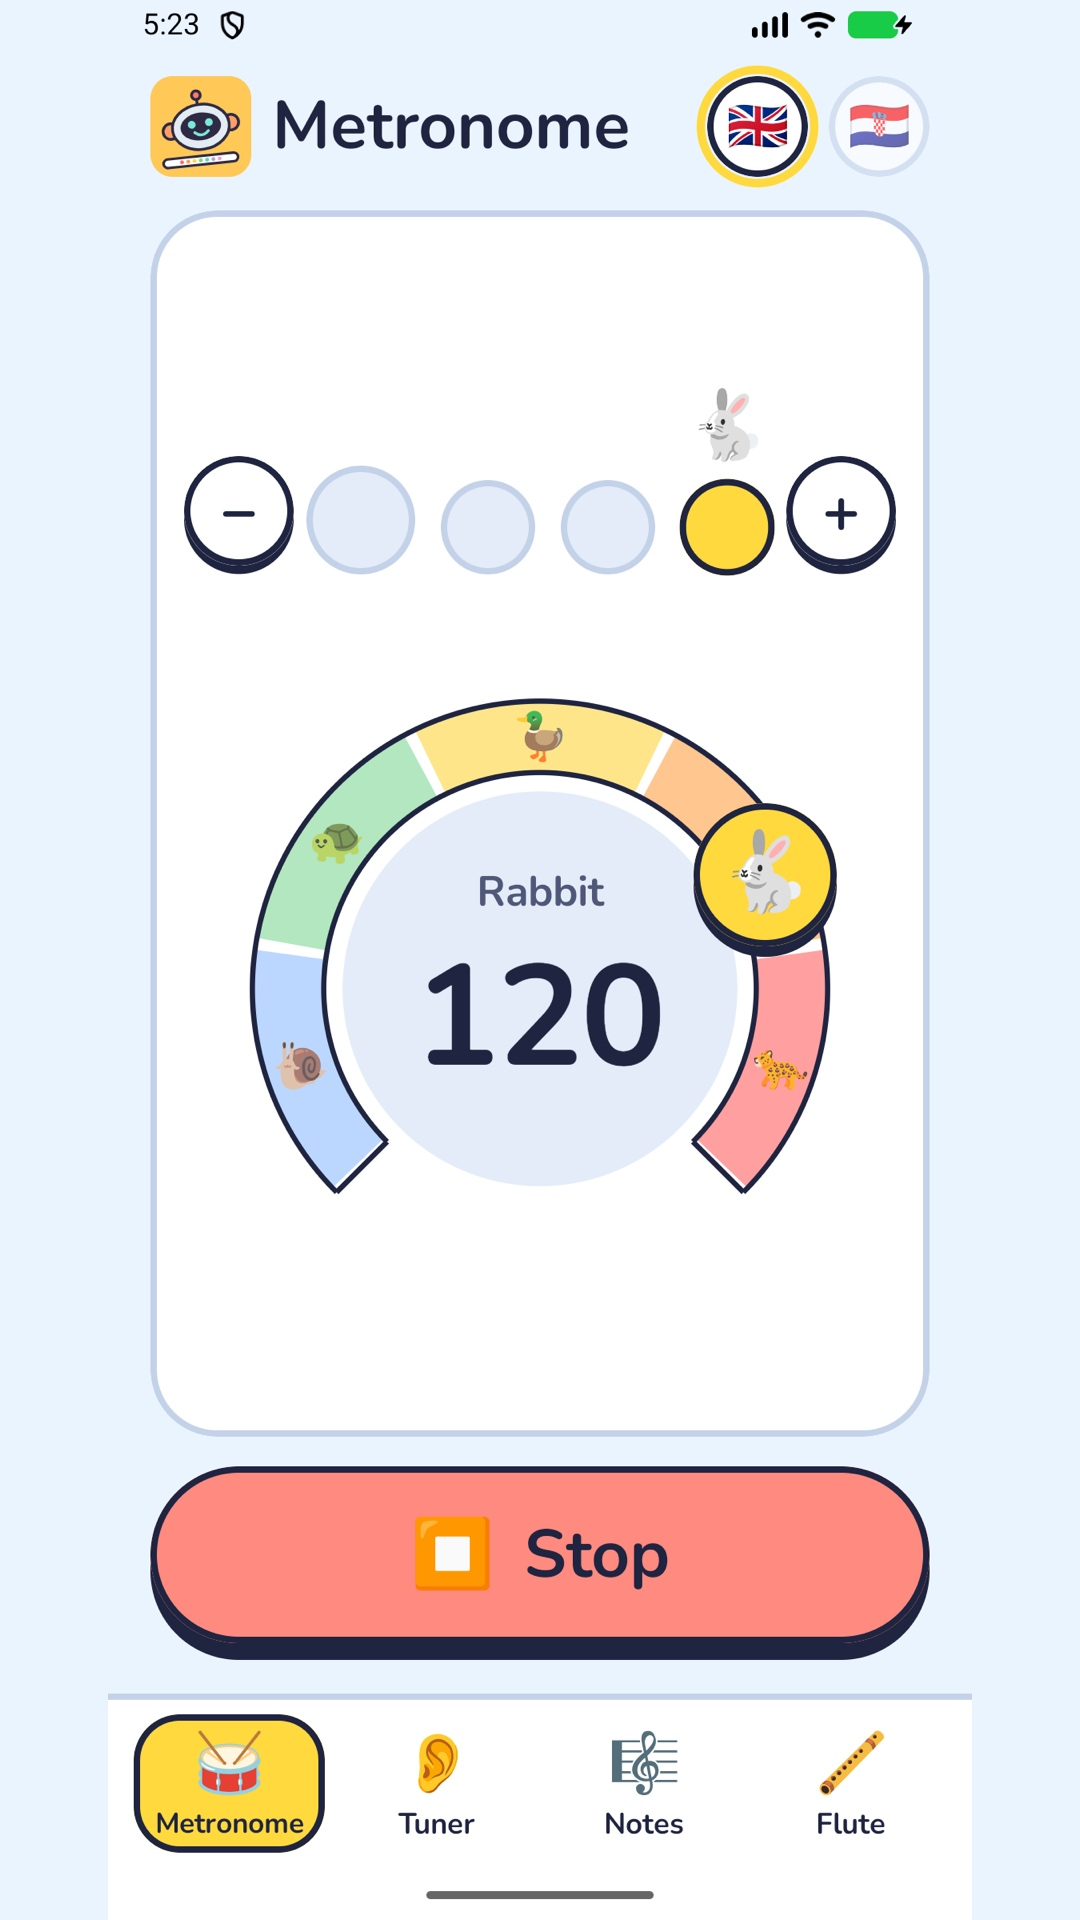
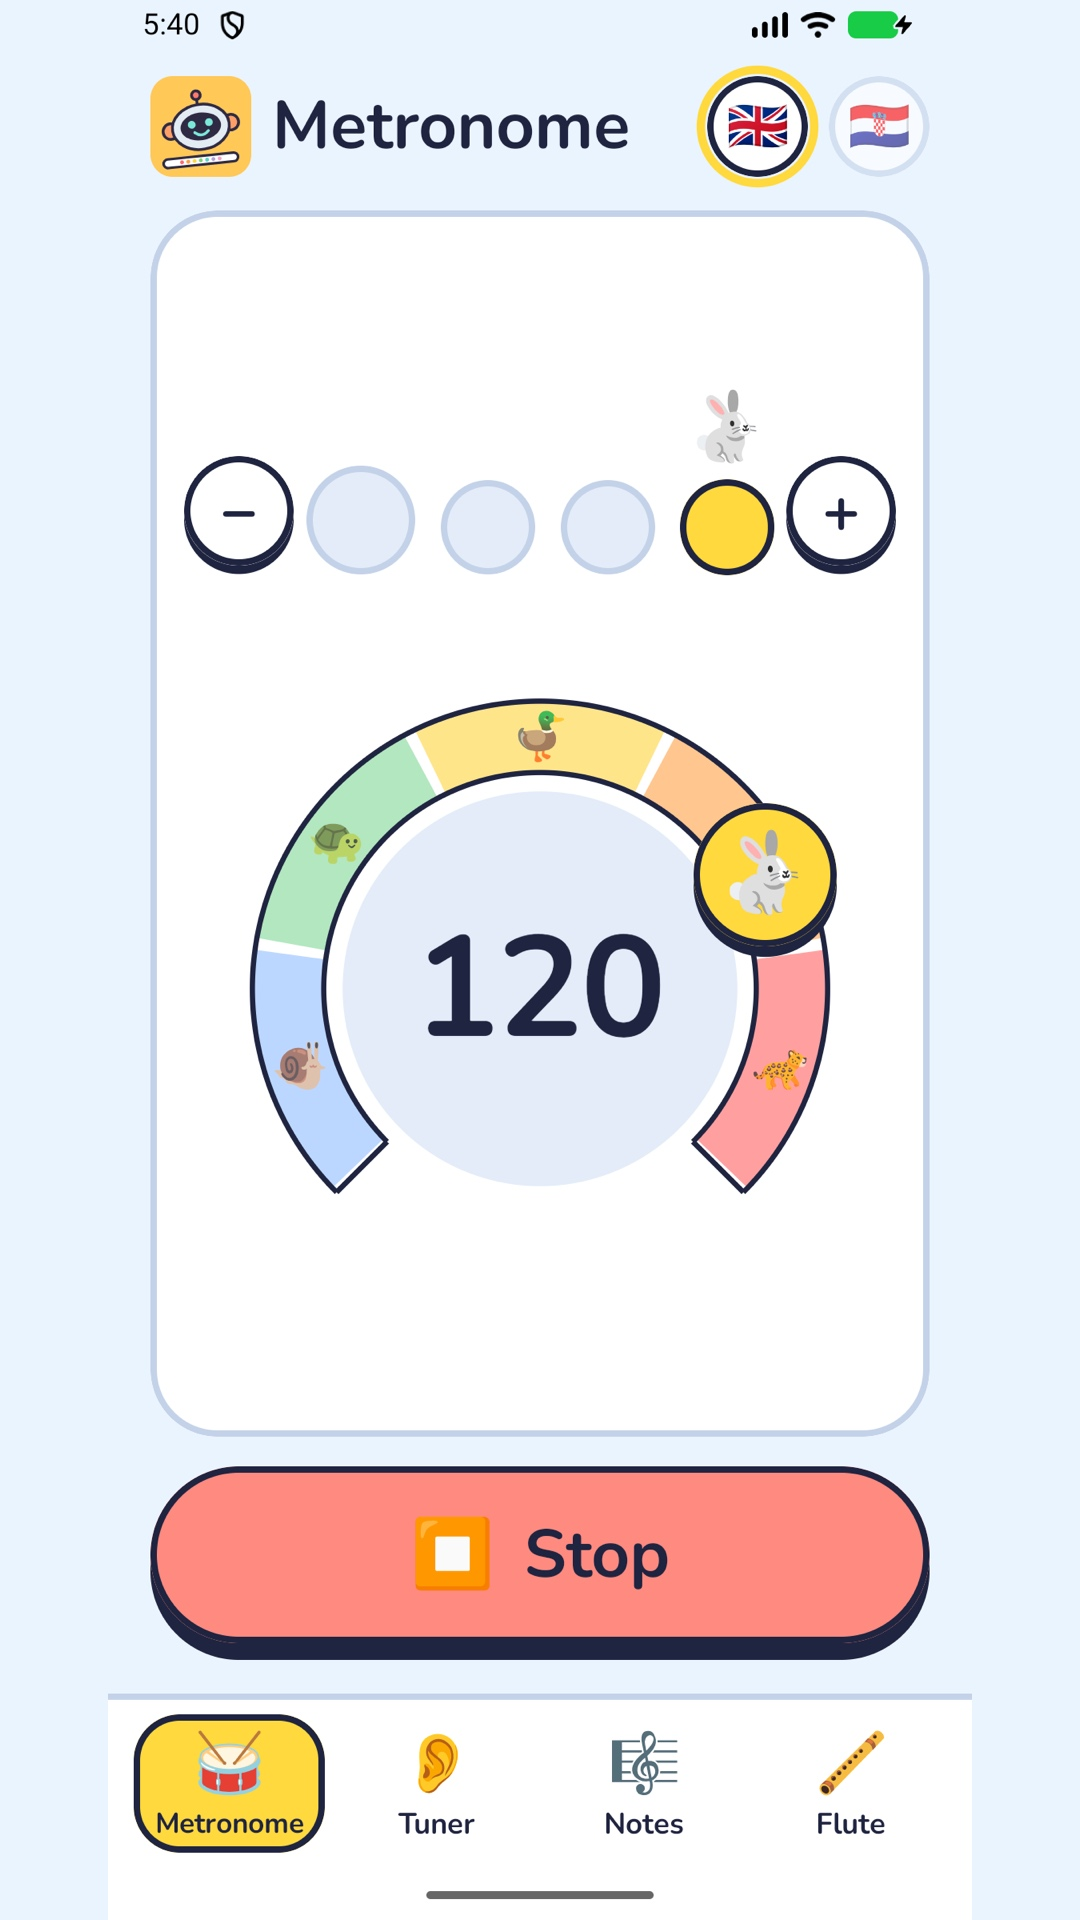
feat(ui): mirror speed animals to face right and simplify tempo ring

diff --git a/app/src/main/java/hr/bertlab/fluteassistant/ui/metronome/TempoDial.kt b/app/src/main/java/hr/bertlab/fluteassistant/ui/metronome/TempoDial.kt
@@ -6,7 +6,6 @@ import androidx.compose.foundation.gestures.detectDragGestures
 import androidx.compose.foundation.interaction.MutableInteractionSource
 import androidx.compose.foundation.layout.Box
 import androidx.compose.foundation.layout.BoxWithConstraints
-import androidx.compose.foundation.layout.Column
 import androidx.compose.foundation.layout.offset
 import androidx.compose.foundation.layout.size
 import androidx.compose.foundation.progressSemantics
@@ -36,6 +35,7 @@ import androidx.compose.ui.res.stringResource
 import androidx.compose.ui.semantics.Role
 import androidx.compose.ui.semantics.contentDescription
 import androidx.compose.ui.semantics.semantics
+import androidx.compose.ui.semantics.stateDescription
 import androidx.compose.ui.semantics.setProgress
 import androidx.compose.ui.unit.Dp
 import androidx.compose.ui.unit.DpOffset
@@ -44,6 +44,7 @@ import androidx.compose.ui.unit.dp
 import hr.bertlab.fluteassistant.R
 import hr.bertlab.fluteassistant.ui.common.Emoji
 import hr.bertlab.fluteassistant.ui.common.chunky
+import hr.bertlab.fluteassistant.ui.common.facingRight
 import hr.bertlab.fluteassistant.ui.theme.FluteTheme
 import hr.bertlab.fluteassistant.ui.theme.Sun
 import kotlin.math.atan2
@@ -98,6 +99,7 @@ fun TempoDial(
     val colors = FluteTheme.colors
     val dialDescription = stringResource(R.string.tempo_dial)
     val band = tempoBand(bpm)
+    val bandName = stringResource(band.labelRes)
     val minBpm = TempoBand.MIN_BPM
     val maxBpm = TempoBand.MAX_BPM
 
@@ -107,6 +109,8 @@ fun TempoDial(
             .progressSemantics(bpm.toFloat(), minBpm.toFloat()..maxBpm.toFloat(), steps = maxBpm - minBpm - 1)
             .semantics {
                 contentDescription = dialDescription
+                // The ring shows no name any more; a screen reader still hears the speed's animal.
+                stateDescription = bandName
                 setProgress { value ->
                     onBpmChange(value.roundToInt().coerceIn(minBpm, maxBpm))
                     true
@@ -155,7 +159,7 @@ fun TempoDial(
                     }
                     .semantics { contentDescription = label },
             ) {
-                if (each != band) Emoji(each.emoji, fontSize = 22, modifier = Modifier.alpha(0.75f))
+                if (each != band) Emoji(each.emoji, fontSize = 22, modifier = Modifier.alpha(0.75f).facingRight())
             }
         }
 
@@ -167,7 +171,7 @@ fun TempoDial(
                 modifier = Modifier.onGloballyPositioned(onWheelPositioned),
             )
         } else {
-            TempoNumber(bpm = bpm, bandName = stringResource(band.labelRes), scale = side / DESIGN_SIZE.dp, onClick = { onEditingChange(true) })
+            TempoNumber(bpm = bpm, scale = side / DESIGN_SIZE.dp, onClick = { onEditingChange(true) })
         }
 
         val knob = side * KNOB_SIZE
@@ -182,18 +186,25 @@ fun TempoDial(
             Emoji(
                 emoji = band.emoji,
                 fontSize = (knob.value * 0.55f).roundToInt(),
-                modifier = Modifier.graphicsLayer { translationY = -HOP_DP * density * flash() },
+                modifier = Modifier
+                    .facingRight()
+                    .graphicsLayer { translationY = -HOP_DP * density * flash() },
             )
         }
     }
 }
 
-/** The band's name over the big tempo figure, sized with the ring ([scale] 1 = 304 dp); a tap opens the wheel. */
+/**
+ * The big tempo figure alone in the ring (the animal on the knob names the speed), sized with the
+ * ring ([scale] 1 = 304 dp); a tap opens the wheel.
+ */
 @Composable
-private fun TempoNumber(bpm: Int, bandName: String, scale: Float, onClick: () -> Unit) {
+private fun TempoNumber(bpm: Int, scale: Float, onClick: () -> Unit) {
     val tapLabel = stringResource(R.string.tempo_tap)
-    Column(
-        horizontalAlignment = Alignment.CenterHorizontally,
+    val number = MaterialTheme.typography.displayLarge
+    Text(
+        text = bpm.toString(),
+        style = number.copy(fontSize = number.fontSize * scale, lineHeight = number.lineHeight * scale),
         modifier = Modifier.clickable(
             interactionSource = remember { MutableInteractionSource() },
             indication = ripple(bounded = false, radius = 72.dp),
@@ -201,16 +212,7 @@ private fun TempoNumber(bpm: Int, bandName: String, scale: Float, onClick: () ->
             onClickLabel = tapLabel,
             onClick = onClick,
         ),
-    ) {
-        val name = MaterialTheme.typography.titleMedium
-        val number = MaterialTheme.typography.displayLarge
-        Text(
-            text = bandName,
-            style = name.copy(fontSize = name.fontSize * scale, lineHeight = name.lineHeight * scale),
-            color = FluteTheme.colors.mutedText,
-        )
-        Text(text = bpm.toString(), style = number.copy(fontSize = number.fontSize * scale, lineHeight = number.lineHeight * scale))
-    }
+    )
 }
 
 /** The five coloured bands between an inner and an outer ink line, closed at both ends. */

diff --git a/app/src/androidTest/java/hr/bertlab/fluteassistant/ui/metronome/MetronomeScreenTest.kt b/app/src/androidTest/java/hr/bertlab/fluteassistant/ui/metronome/MetronomeScreenTest.kt
@@ -3,6 +3,9 @@ package hr.bertlab.fluteassistant.ui.metronome
 import androidx.compose.runtime.MutableState
 import androidx.compose.runtime.mutableStateOf
 import androidx.compose.ui.semantics.SemanticsActions
+import androidx.compose.ui.semantics.SemanticsProperties
+import androidx.compose.ui.test.SemanticsMatcher
+import androidx.compose.ui.test.assert
 import androidx.compose.ui.test.assertCountEquals
 import androidx.compose.ui.test.assertIsDisplayed
 import androidx.compose.ui.test.assertIsEnabled
@@ -65,13 +68,16 @@ class MetronomeScreenTest {
     }
 
     @Test
-    fun the_ring_names_the_speed_with_its_animal() {
+    fun the_ring_shows_only_the_tempo_and_tells_a_screen_reader_its_animal() {
         show(MetronomeUiState(config = MetronomeConfig(bpm = 120)))
-        compose.onNodeWithText("Rabbit").assertIsDisplayed()
+        compose.onNodeWithText("Rabbit").assertDoesNotExist()
+        ring().assert(SemanticsMatcher.expectValue(SemanticsProperties.StateDescription, "Rabbit"))
         compose.runOnIdle { state.value = state.value.copy(config = MetronomeConfig(bpm = 70)) }
-        compose.onNodeWithText("Turtle").assertIsDisplayed()
+        ring().assert(SemanticsMatcher.expectValue(SemanticsProperties.StateDescription, "Turtle"))
         compose.onNodeWithText("70").assertIsDisplayed()
     }
+
+    private fun ring() = compose.onNodeWithContentDescription("Tempo ring, drag around it to change the speed")
 
     @Test
     fun tapping_a_band_jumps_to_its_start_and_the_rabbit_again_to_120() {
@@ -179,7 +185,8 @@ class MetronomeScreenTest {
     fun croatian_system_language_shows_croatian_labels() {
         show(MetronomeUiState(), Locale("hr"))
         compose.onNodeWithText("Sviraj").assertIsDisplayed()
-        compose.onNodeWithText("Zec").assertIsDisplayed()
+        compose.onNodeWithText("Zec").assertDoesNotExist()
+        compose.onNodeWithContentDescription("Zec").assertExists()
         compose.onNodeWithContentDescription("Dobe u taktu: 4").assertIsDisplayed()
         compose.onAllNodesWithContentDescription("Više doba").assertCountEquals(1)
         compose.onNodeWithContentDescription("Kornjača").assertExists()

diff --git a/app/src/main/java/hr/bertlab/fluteassistant/ui/notes/RoundSummary.kt b/app/src/main/java/hr/bertlab/fluteassistant/ui/notes/RoundSummary.kt
@@ -33,6 +33,7 @@ import hr.bertlab.fluteassistant.R
 import hr.bertlab.fluteassistant.ui.common.BigActionButton
 import hr.bertlab.fluteassistant.ui.common.Emoji
 import hr.bertlab.fluteassistant.ui.common.OutlineWidth
+import hr.bertlab.fluteassistant.ui.common.facingRight
 import hr.bertlab.fluteassistant.ui.theme.FluteTheme
 import hr.bertlab.fluteassistant.ui.theme.Go
 
@@ -82,6 +83,7 @@ fun RoundSummary(state: NotesUiState, onPlayAgain: () -> Unit, modifier: Modifie
             )
             StatTile(
                 picture = speed?.emoji.orEmpty(),
+                animal = true,
                 label = stringResource(R.string.summary_speed),
                 description = speed?.let { stringResource(R.string.speed_description, stringResource(it.labelRes)) }.orEmpty(),
                 modifier = Modifier.weight(1f),
@@ -97,9 +99,16 @@ fun RoundSummary(state: NotesUiState, onPlayAgain: () -> Unit, modifier: Modifie
     }
 }
 
-/** A quiet tile: a picture made of emoji over one word. */
+/** A quiet tile: a picture made of emoji over one word; an [animal] faces right, as on the metronome. */
 @Composable
-private fun StatTile(picture: String, label: String, description: String, modifier: Modifier = Modifier, faint: Boolean = false) {
+private fun StatTile(
+    picture: String,
+    label: String,
+    description: String,
+    modifier: Modifier = Modifier,
+    faint: Boolean = false,
+    animal: Boolean = false,
+) {
     val colors = FluteTheme.colors
     val shape = RoundedCornerShape(24.dp)
     Column(
@@ -116,7 +125,9 @@ private fun StatTile(picture: String, label: String, description: String, modifi
             text = picture,
             style = MaterialTheme.typography.titleLarge.copy(fontSize = 22.sp, letterSpacing = (-2).sp),
             maxLines = 1,
-            modifier = Modifier.alpha(if (faint) 0.3f else 1f),
+            modifier = Modifier
+                .alpha(if (faint) 0.3f else 1f)
+                .then(if (animal) Modifier.facingRight() else Modifier),
         )
         Text(label, style = MaterialTheme.typography.labelLarge, maxLines = 1)
     }

diff --git a/app/src/main/java/hr/bertlab/fluteassistant/ui/metronome/BeatIndicator.kt b/app/src/main/java/hr/bertlab/fluteassistant/ui/metronome/BeatIndicator.kt
@@ -31,6 +31,7 @@ import hr.bertlab.fluteassistant.domain.model.TimeSignature
 import hr.bertlab.fluteassistant.ui.common.ChunkyButton
 import hr.bertlab.fluteassistant.ui.common.Emoji
 import hr.bertlab.fluteassistant.ui.common.OutlineWidth
+import hr.bertlab.fluteassistant.ui.common.facingRight
 import hr.bertlab.fluteassistant.ui.theme.FluteTheme
 import hr.bertlab.fluteassistant.ui.theme.Sun
 
@@ -132,7 +133,9 @@ private fun BeatBubbles(
                             Emoji(
                                 emoji = animal,
                                 fontSize = 32,
-                                modifier = Modifier.graphicsLayer { translationY = -HOP_DP * density * flash() },
+                                modifier = Modifier
+                                    .facingRight()
+                                    .graphicsLayer { translationY = -HOP_DP * density * flash() },
                             )
                         }
                     }

diff --git a/app/src/main/java/hr/bertlab/fluteassistant/ui/common/Chunky.kt b/app/src/main/java/hr/bertlab/fluteassistant/ui/common/Chunky.kt
@@ -188,3 +188,10 @@ fun Emoji(emoji: String, fontSize: Int, modifier: Modifier = Modifier) {
         modifier = modifier.clearAndSetSemantics { },
     )
 }
+
+/**
+ * Turns an animal emoji round to face right, the way the metronome's ring goes faster; every
+ * speed animal (the ring's and the notes summary's) does. The emoji sets seen so far (Google's on
+ * Android, Apple's on the design canvas) draw all five facing left.
+ */
+fun Modifier.facingRight(): Modifier = graphicsLayer(scaleX = -1f)

diff --git a/CLAUDE.md b/CLAUDE.md
@@ -312,9 +312,12 @@ the open tab; the tab bar is four emoji-and-word buttons. The metronome is one s
 (the first bigger; the sounding one yellow with the speed's animal hopping on it) between a − and
 a + that step the bar from two to six beats (`fewerBeats` / `moreBeats` over 2/4, 3/4, 4/4, 5/4,
 6/8; the other signatures are not offered), and the tempo ring from 40 to 200: five animal bands
-(`TempoBand`: snail 40, turtle 60, duck 80, rabbit 100, cheetah 130), each a fifth of the ring, a
+(`TempoBand`: snail 40, turtle 60, duck 80, rabbit 100, cheetah 130), each a fifth of the ring and
+every animal mirrored to face right (`facingRight` in `ui/common`, also used for the summary's
+speed animal: the emoji sets draw them facing left), a
 yellow knob with the current animal that is dragged round, a tap on an animal jumps to its band
-(the rabbit again to 120), and the band's name over the tempo figure in the middle (tap it for the
+(the rabbit again to 120), and the tempo figure alone in the middle (the band's name above it was
+dropped on 2026-10-24; a screen reader hears it as the ring's state; tap the figure for the
 in-place `TempoWheel`; there are no tempo −/+ buttons: the user turned them down again on
 2026-10-24); then one Play / Stop pill (no volume control: the phone's buttons set loudness). The
 tuner has the two mode pills on top ("Which?" / "Tune"), then a stage with the pitch window (since
